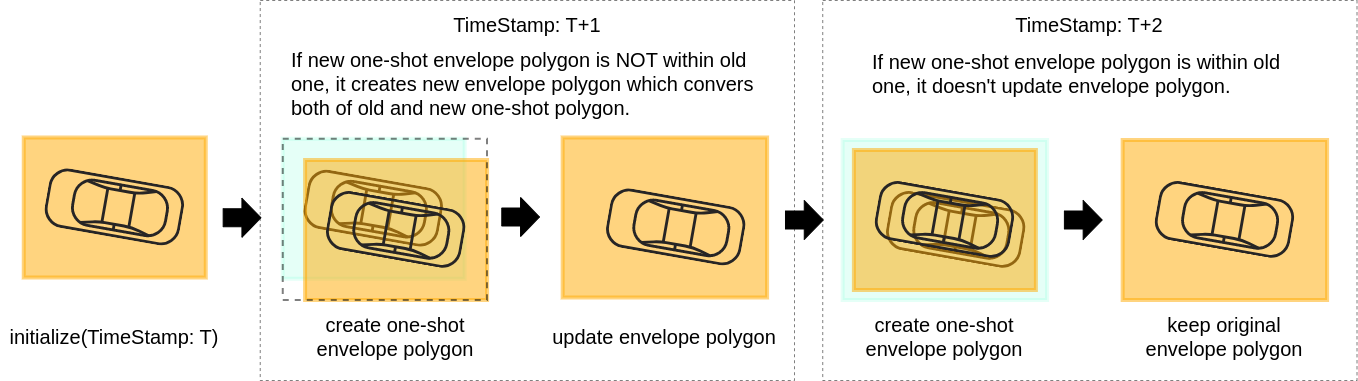
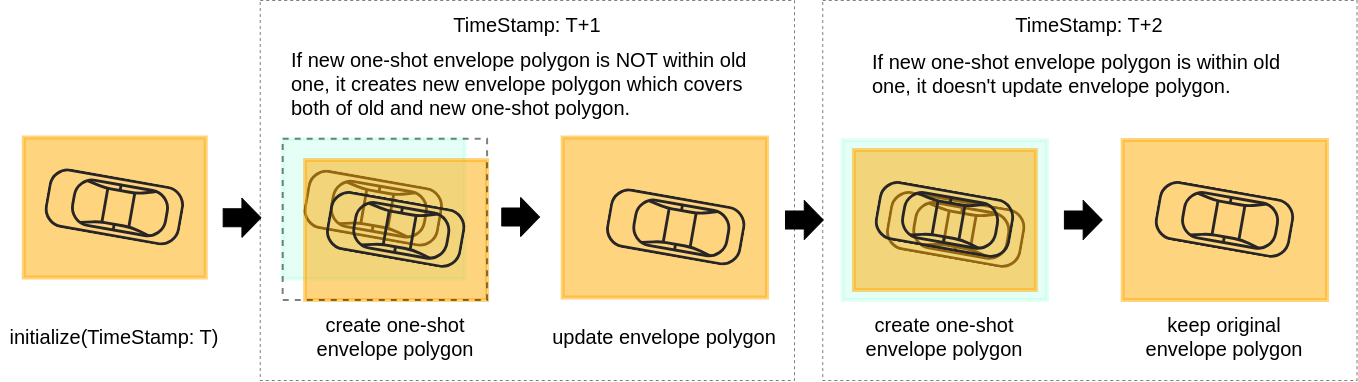
docs(static_obstacle_avoidance): update envelope polygon creation (#8822)
* update envelope polygon creation

* fix whitespace

---------

diff --git a/planning/behavior_path_planner/autoware_behavior_path_static_obstacle_avoidance_module/README.md b/planning/behavior_path_planner/autoware_behavior_path_static_obstacle_avoidance_module/README.md
@@ -748,9 +748,15 @@ The envelope polygon is a rectangle box, whose size depends on the object's poly
 
 ![fig](./images/path_generation/envelope_polygon.png)
 
-The module creates a one-shot envelope polygon by using the latest object pose and raw polygon in every planning cycle. On the other hand, the module uses the envelope polygon information created in the last planning cycle in order to update the envelope polygon according to the following logic. If the one-shot envelope polygon is not within the previous envelope polygon, the module creates a new envelope polygon. Otherwise, it keeps the previous envelope polygon. By doing this process, the envelope polygon size and pose will converge even if perception output includes noise in object pose or shape.
+The module creates a one-shot envelope polygon by using the latest object pose and raw polygon in every planning cycle. On the other hand, the module uses the envelope polygon information created in the last planning cycle in order to update the envelope polygon with consideration of the pose covariance.
+
+If the pose covariance is smaller than the threshold, the envelope polygon would be updated according to the following logic. If the one-shot envelope polygon is not within the previous envelope polygon, the module creates a new envelope polygon. Otherwise, it keeps the previous envelope polygon.
 
 ![fig](./images/path_generation/polygon_update.png)
+
+When the pose covariance is larger than the threshold, it is compared with the maximum pose covariance of each object. If the value is smaller, the one-shot envelope polygon is used directly as the envelope polygon. Otherwise, it keeps the previous envelope polygon.
+
+By doing this process, the envelope polygon size and pose will converge even if perception output includes noise in object pose or shape.
 
 ### Relationship between envelope polygon and avoidance path
 
